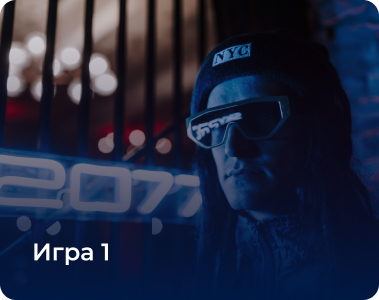
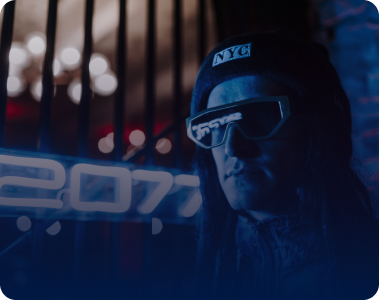
fixed remarks

Changed region(s): [[0.0871, 0.81, 0.2902, 0.9]]

diff --git a/css/style.scss b/css/style.scss
@@ -80,18 +80,46 @@ a {
     min-height: 556px;
     padding-top: 128px;
 
+}
+
+.game-list {
     display: flex;
     flex-wrap: wrap;
     gap: 32px;
+}
 
-    &__item {
+.game {
+
+    &__link {
+
         width: 378px;
         height: 300px;
         border-radius: 16px;
-    }
 
-    &__img {
-        border-radius: 16px;
-    }
+        background-repeat: no-repeat;
+        background-position: center;
+        background-size: cover;
 
+        font-weight: 600;
+        font-size: 24px;
+        line-height: 32px;
+        color: #FFFFFF;
+
+        display: flex;
+        align-items: flex-end;
+        padding-left: 32px;
+        padding-bottom: 32px;
+
+        &_1 {
+            background-image: url(../img/item_pic1.jpg);
+        }
+
+        &_2 {
+            background-image: url(../img/item_pic2.jpg);
+        }
+
+        &_3 {
+            background-image: url(../img/item_pic3.jpg);
+        }
+    }
 }

diff --git a/html/index.html b/html/index.html
@@ -20,9 +20,12 @@
         </section>
     </header>
     <section class="center game-menu">
-        <div class="game-menu__item"><a href="#"><img class="game-menu__img" src="../img/item_pic1.jpg" alt=""></a></div>
-        <div class="game-menu__item"><a href="#"><img class="game-menu__img" src="../img/item_pic2.jpg" alt=""></a></div>
-        <div class="game-menu__item"><a href="#"><img class="game-menu__img" src="../img/item_pic3.jpg" alt=""></a></div>
+        <ul class="game-list">
+            <li class="game"><a href="#" class="game__link game__link_1">Игра 1</a></li>
+            <li class="game"><a href="#" class="game__link game__link_2">Игра 2</a></li>
+            <li class="game"><a href="#" class="game__link game__link_3">Игра 3</a></li>
+        </ul>
+        
     </section>
 </body>
 </html>

diff --git a/css/style.css b/css/style.css
@@ -72,15 +72,36 @@ a {
   background-size: cover;
   min-height: 556px;
   padding-top: 128px;
+}
+
+.game-list {
   display: flex;
   flex-wrap: wrap;
   gap: 32px;
 }
-.game-menu__item {
+
+.game__link {
   width: 378px;
   height: 300px;
   border-radius: 16px;
+  background-repeat: no-repeat;
+  background-position: center;
+  background-size: cover;
+  font-weight: 600;
+  font-size: 24px;
+  line-height: 32px;
+  color: #FFFFFF;
+  display: flex;
+  align-items: flex-end;
+  padding-left: 32px;
+  padding-bottom: 32px;
 }
-.game-menu__img {
-  border-radius: 16px;
+.game__link_1 {
+  background-image: url(../img/item_pic1.jpg);
+}
+.game__link_2 {
+  background-image: url(../img/item_pic2.jpg);
+}
+.game__link_3 {
+  background-image: url(../img/item_pic3.jpg);
 }/*# sourceMappingURL=style.css.map */
